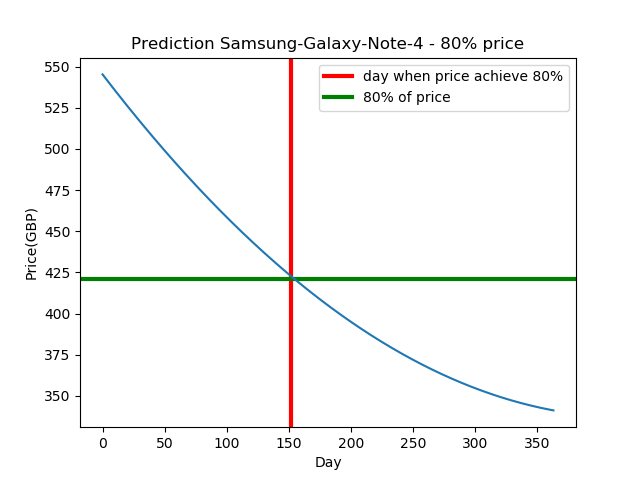
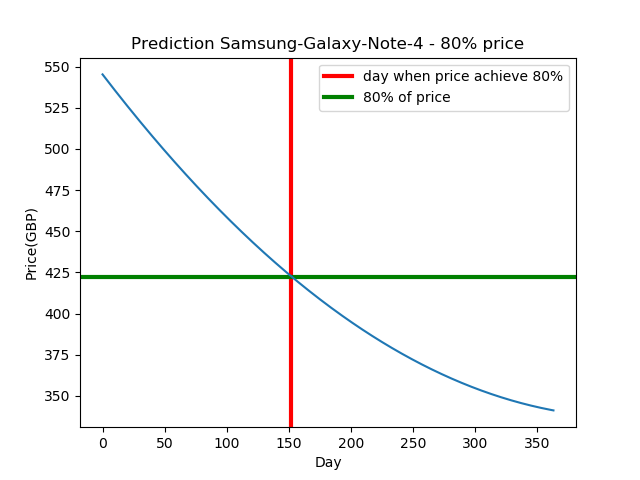
names refactor

Changed region(s): [[0.125, 0.5625, 0.9062, 0.5938]]

diff --git a/WhenShouldIBuy/main.py b/WhenShouldIBuy/main.py
@@ -1,28 +1,38 @@
+"""
+    WhenShouldiBuy - analyze and predict after how many days
+    from premiere of mobile phone price is drop to80% from start price
+    Historical Price data are from https://pricespy.co.uk.
+    Prices are in British pounds.
+    Polynomial regression is used
+    7 price ranges is used
+"""
+
 import sys
 sys.path.append("..")
+
+from sklearn.metrics import mean_squared_error
+from sklearn.metrics import r2_score
 
 import web_price_scraping as wps
 import draw_charts as dc
 import real_predict as rp
 import pandas as pd
 
-from sklearn.metrics import mean_squared_error
-from sklearn.metrics import r2_score
 
 def main():
-    # Scraping data from website
+    # Scraping data from website and create dataset
     links = wps.read_links()
     wps.price_scraping(links)
-    wps.concat_data()
+    wps.create_final_dataset()
 
     # Importing the dataset
     dataset = pd.read_csv('data/out_concat.csv')
-    X = dataset.iloc[:, [1, 4]].values
-    Y = dataset.iloc[:, 3].values
+    x_data = dataset.iloc[:, [1, 4]].values
+    y_data = dataset.iloc[:, 3].values
 
     # Split data
     from sklearn.model_selection import train_test_split
-    X_train, X_test, y_train, y_test = train_test_split(X, Y, test_size=0.2, random_state=0)
+    X_train, X_test, y_train, y_test = train_test_split(x_data, y_data, test_size=0.2, random_state=0)
 
     #Feature Scaling
     # from sklearn.preprocessing import StandardScaler
@@ -33,16 +43,15 @@ def main():
     # fit linear regression model
     from sklearn.linear_model import LinearRegression
     lin_regr = LinearRegression()
-    lin_regr.fit(X, Y)
+    lin_regr.fit(x_data, y_data)
 
     # fit Polynomial Regression model
     from sklearn.preprocessing import PolynomialFeatures
     poly_reg = PolynomialFeatures(degree=2)
-    X_poly = poly_reg.fit_transform(X)
-    print('X_poly', X_poly)
-    poly_reg.fit(X_poly, Y)
+    x_poly = poly_reg.fit_transform(x_data)
+    poly_reg.fit(x_poly, y_data)
     lin_reg_2 = LinearRegression()
-    lin_reg_2.fit(X_poly, Y)
+    lin_reg_2.fit(x_poly, y_data)
 
     # draw graphs
     dc.grid_of_subplots(dataset, lin_reg_2, poly_reg)
@@ -63,22 +72,25 @@ def main():
     # result [327.40021005]
     # should  be 328.3
 
-
-    # real prediction 1
+    # real prediction no_1
     # 'https://pricespy.co.uk/phones-gps/mobile-phones/samsung-galaxy-note-4-duos-sm-n9100-16gb--p2905869/statistics'
+    start_price_1 = 528
+    goal_price = int(start_price_1 * 0.8)
+    pred_day = 152
+    y_pred_all = rp.real_prediction(start_price_1, lin_reg_2, poly_reg, 'samsung-galaxy-note-4-duos-sm-n9100')
+    dc.real_prediction_plot('Samsung-Galaxy-Note-4', y_pred_all, pred_day, goal_price)
 
-    y_pred_all = rp.real_prediction(528, lin_reg_2, poly_reg, 'samsung-galaxy-note-4-duos-sm-n9100')
-    dc.real_prediction_plot('Samsung-Galaxy-Note-4', y_pred_all, 152, 421)
-
-    # 153 day is 80 % to: 421.96564126781067
-    # after 153 day from graph is 483 so is 10% fail and
+    # 152 day is 80 % to: 422
+    # after 152 day from graph is 483 so is 10% fail and
 
 
     # real prediction 2
     # 'https://pricespy.co.uk/phones-gps/mobile-phones/sony-xperia-xz1-compact-g8441--p4433342/statistics'
-
-    y_pred_all = rp.real_prediction(479, lin_reg_2, poly_reg, 'Sony Xperia XZ1 Compact G8441')
-    dc.real_prediction_plot('Sony-Xperia-xz1', y_pred_all, 90, 382)
+    start_price_2 = 479
+    goal_price = int(start_price_2 * 0.8)
+    pred_day = 90
+    y_pred_all = rp.real_prediction(start_price_2, lin_reg_2, poly_reg, 'Sony Xperia XZ1 Compact G8441')
+    dc.real_prediction_plot('Sony-Xperia-xz1', y_pred_all, pred_day, goal_price)
 
     # 90 day is 80 % to: 382
     # after 90 day from graph is 394 so is 4% fail and

diff --git a/WhenShouldIBuy/web_price_scraping.py b/WhenShouldIBuy/web_price_scraping.py
@@ -1,20 +1,25 @@
-# This module implements web scraping functionality
+
+"""
+        This module implements web scraping functionality
+        using https://pricespy.co.uk/phones-gps/mobile-phones
+        to create datasets from statistics specific mobile phones
+"""
+
 import re
 import os
 import csv
-
 import sys
 sys.path.append("..")
 
 from urllib.request import urlopen
 from bs4 import BeautifulSoup
 import itertools
-
 import pandas as pd
+
 import utils as ut
 
 
-def fromCsvToDf(*names):
+def csv_to_df(*names):
     df0 = pd.DataFrame()
     for name in names:
         cols = ['date', 'price', 'premium', 'name']
@@ -37,29 +42,29 @@ def price_scraping(links):
     for link in links:
         page = urlopen(link)
         soup = BeautifulSoup(page, 'html.parser')
-        soup2 = str(soup)
+        str_soup = str(soup)
 
         pattern = re.compile(
             '\"statistics\"\:\{\"pageInfo\"\:\{\"lowestPrice\"\:.*nodes\"\:\[(.*)\]\}\,\"priceForecast',
             re.MULTILINE)
-        data = re.findall(pattern, soup2)
+        data = re.findall(pattern, str_soup)
         pattern_name = re.compile('\"Product\",\"name\":\"(.*)\",\"description\":\"Price history', re.MULTILINE)
-        data_name = re.findall(pattern_name, soup2)
+        data_name = re.findall(pattern_name, str_soup)
 
         # remove chars
-        rm_characters = data[0]
+        raw_text = data[0]
         chars = ['{', '}', '"date":', '"lowestPrice":', '"']
 
         for c in chars:
-            rm_characters = rm_characters.replace(c, "")
-        split_data = rm_characters.split(',')
+            raw_text = raw_text.replace(c, "")
+        split_text = raw_text.split(',')
 
         # convert list to dictionary
-        d = dict(itertools.zip_longest(*[iter(split_data)] * 2, fillvalue=""))
+        list_to_dict = dict(itertools.zip_longest(*[iter(split_text)] * 2, fillvalue=""))
 
         # create dataframe from dict
-        dfObj = pd.DataFrame.from_dict(d, orient='index', columns=None)
-        dfObj['premium'] = ut.choose(float(dfObj.iloc[3, 0]))
+        dfObj = pd.DataFrame.from_dict(list_to_dict, orient='index', columns=None)
+        dfObj['premium'] = ut.deduce_premium_no(float(dfObj.iloc[3, 0]))
 
         # add column with name of mobile phone
         dfObj['Phone name'] = data_name[0]
@@ -69,16 +74,18 @@ def price_scraping(links):
         dir_name = 'data'
         filename_suffix = 'csv'
         base_filename = 'out'
-        no_file = str(int(ut.choose(float(dfObj.iloc[3, 0]))))
+        no_of_file = str(int(ut.deduce_premium_no(float(dfObj.iloc[3, 0]))))
 
-        path = os.path.join(dir_name, no_file + base_filename + "." + filename_suffix)
+        path = os.path.join(dir_name, no_of_file + base_filename + "." + filename_suffix)
 
         # write dataframe to csv file
         pd.DataFrame(dfObj).to_csv(path, header=False, quoting=csv.QUOTE_NONE)
 
 # create final csv datafile
-def concat_data():
-    df_concat = fromCsvToDf('data/2out.csv', 'data/3out.csv', 'data/4out.csv', 'data/5out.csv', 'data/6out.csv', 'data/7out.csv', 'data/8out.csv')
+def create_final_dataset():
+    # concat datasets from various premium number datasets
+    df_concat = csv_to_df('data/2out.csv', 'data/3out.csv', 'data/4out.csv', 'data/5out.csv', 'data/6out.csv',
+                          'data/7out.csv', 'data/8out.csv')
 
     # save concat df to csv
     pd.DataFrame(df_concat).to_csv('data/out_concat.csv', header=False, quoting=csv.QUOTE_NONE)

diff --git a/WhenShouldIBuy/utils.py b/WhenShouldIBuy/utils.py
@@ -1,19 +1,19 @@
 
-# choose premium number dependign on begining price
-def choose(begining_price):
-    if (begining_price < 300) and (begining_price) >= 200:
+# convert price to premium number depending on starting price
+def deduce_premium_no(starting_price):
+    if (starting_price < 300) and (starting_price) >= 200:
         return 2
-    elif (begining_price < 400) and (begining_price) >= 300:
+    elif (starting_price < 400) and (starting_price) >= 300:
         return 3
-    elif (begining_price < 500) and (begining_price) >= 400:
+    elif (starting_price < 500) and (starting_price) >= 400:
         return 4
-    elif (begining_price < 600) and (begining_price) >= 500:
+    elif (starting_price < 600) and (starting_price) >= 500:
         return 5
-    elif (begining_price < 700) and (begining_price) >= 600:
+    elif (starting_price < 700) and (starting_price) >= 600:
         return 6
-    elif (begining_price < 800) and (begining_price) >= 700:
+    elif (starting_price < 800) and (starting_price) >= 700:
         return 7
-    elif (begining_price < 900) and (begining_price) >= 800:
+    elif (starting_price < 900) and (starting_price) >= 800:
         return 8
     else:
         print('Begining price is not in the correct range')

diff --git a/WhenShouldIBuy/real_predict.py b/WhenShouldIBuy/real_predict.py
@@ -3,11 +3,11 @@ sys.path.append("..")
 import utils as ut
 import pandas as pd
 
-def real_prediction(price_begining, lin_reg_2, poly_reg, model_name):
-    price_begining = price_begining
-    premium_no = ut.choose(price_begining)
-    percent_treshold = int(price_begining * 0.8)
-    print('data_begining:', price_begining)
+def real_prediction(starting_price, lin_reg_2, poly_reg, model_name):
+    starting_price = starting_price
+    premium_no = ut.deduce_premium_no(starting_price)
+    percent_treshold = int(starting_price * 0.8)
+    print('data_begining:', starting_price)
     print('percent_treshold 80%:', percent_treshold)
 
     x_specific = pd.DataFrame()
@@ -18,6 +18,6 @@ def real_prediction(price_begining, lin_reg_2, poly_reg, model_name):
     print('prediction for' + model_name)
     for i in range(y_pred_all.size):
         if y_pred_all[i] <= percent_treshold:
-            print('Begining price(', price_begining, ')', ' should drop to 80% (', y_pred_all[i], ')', ' in ', i, 'day')
+            print('Begining price(', starting_price, ')', ' should drop to 80% (', y_pred_all[i], ')', ' in ', i, 'day')
             break
     return y_pred_all

diff --git a/WhenShouldIBuy/draw_charts.py b/WhenShouldIBuy/draw_charts.py
@@ -1,6 +1,11 @@
+
+"""
+        This module implements wisualisation for datasets and predictins
+"""
+
 import matplotlib.pyplot as plt
-import numpy as np
 import matplotlib.patches as mpatches
+import numpy as np
 import pandas as pd
 
 
@@ -22,16 +27,17 @@ def real_prediction_plot(plot_name, y_pred_all, line_x, line_y):
     plt.savefig('predict-' + plot_name + '.png')
     plt.show()
 
+
 def draw_graphs(premium_no, dataset, lin_reg_2, poly_reg):
-    dataset = pd.read_csv('data/out_concat.csv')
     x_specific = pd.DataFrame()
     x_specific.insert(0, 'Day', range(0, 364))
     x_specific.insert(1, 'premium', premium_no)
-    mainDf = dataset[dataset.iloc[:, 4] == premium_no]
-    y_raw = mainDf.iloc[0:364, 3]
+    main_df = dataset[dataset.iloc[:, 4] == premium_no]
+    y_raw = main_df.iloc[0:364, 3]
     y = lin_reg_2.predict(poly_reg.fit_transform(x_specific))
     plt.plot(range(0, 364), y_raw, color='blue')
     plt.plot(range(0, 364), y, color='red')
+
 
 def grid_of_subplots(dataset, lin_reg_2, poly_reg):
     fig = plt.figure(figsize=(10, 10))
